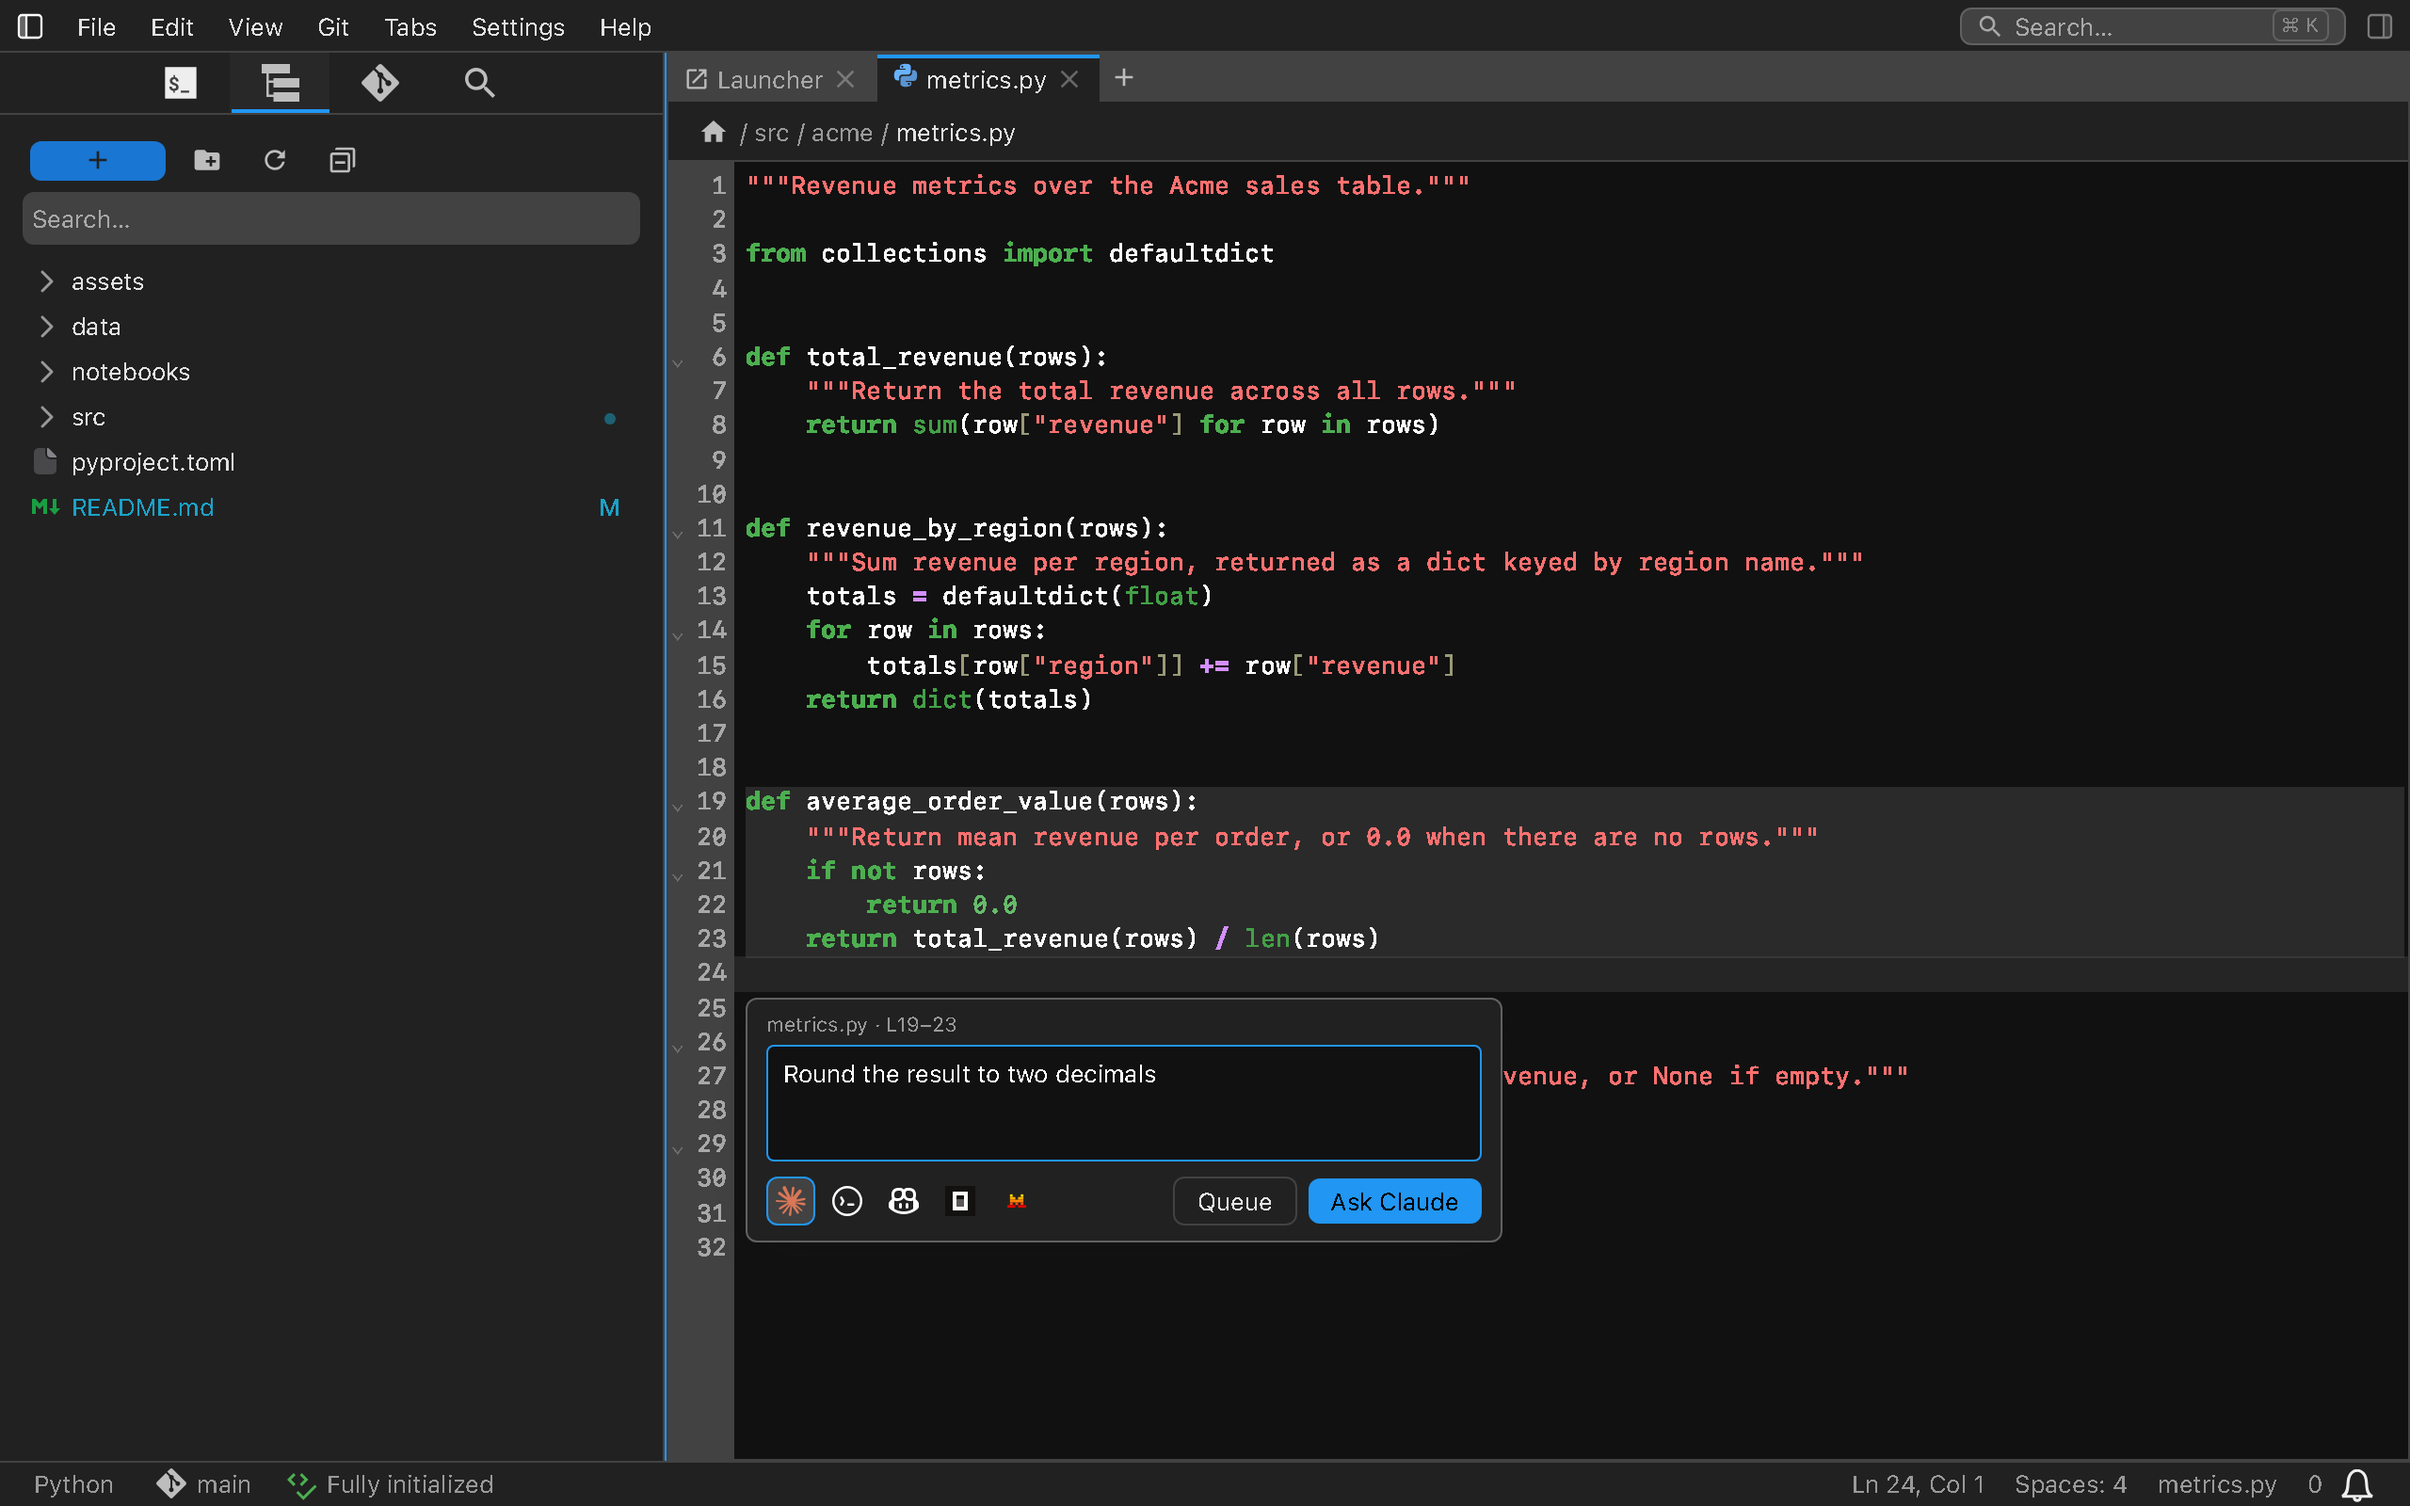
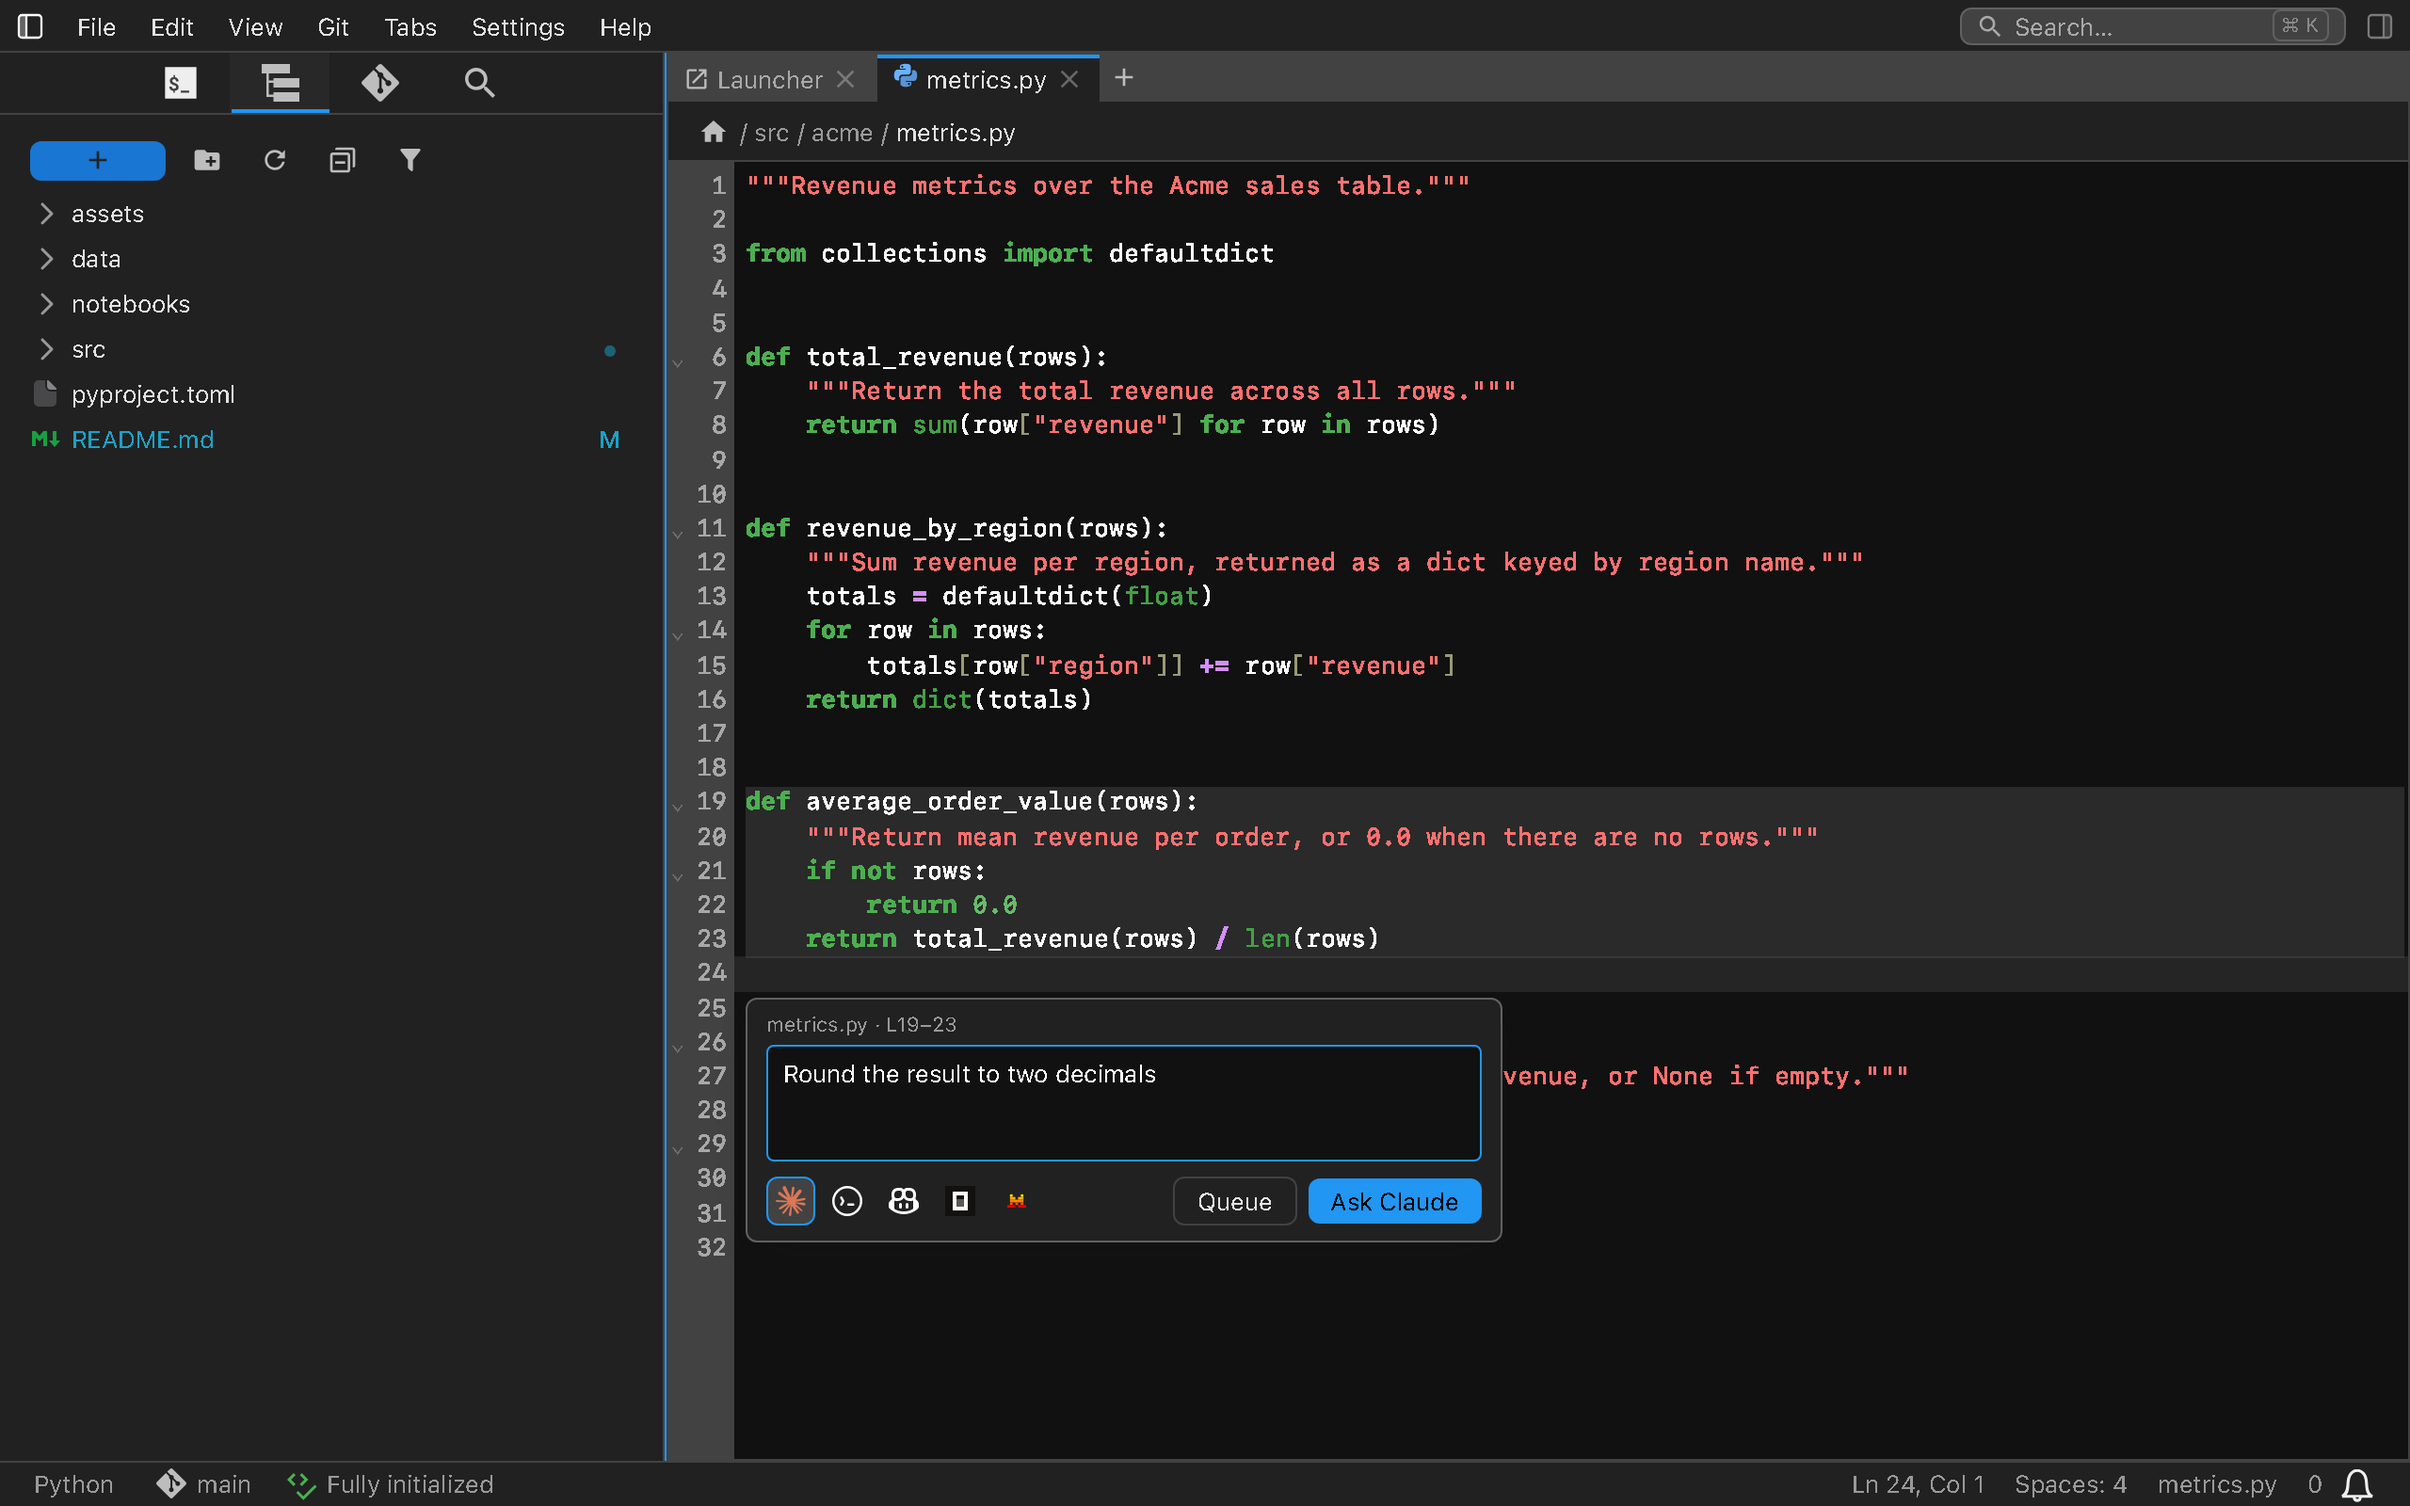
Hide the file browser filter box behind a toolbar toggle

Changed region(s): [[0.0, 0.125, 0.2812, 0.3438]]

diff --git a/src/fileBrowser/fileBrowser.tsx b/src/fileBrowser/fileBrowser.tsx
@@ -93,10 +93,21 @@ const GIT_REPO_PATH = '';
  */
 const FILE_TREE_TAG = 'file-tree-container';
 
+/**
+ * Injected into the tree's shadow root. The second rule hides the search
+ * box unless the host carries the visibility marker set by the filter
+ * bridge effect below — `@pierre/trees` always renders the box when
+ * `search` is enabled, and its stylesheet lives in the shadow root where
+ * outside CSS cannot reach.
+ */
 const FILE_TREE_UNSAFE_CSS =
   '[data-type="item"][data-item-selected="true"] ' +
   '[data-item-section="spacing-item"] {' +
   'border-left-color: transparent;' +
+  '}' +
+  ':host(:not([data-xtralab-filter-visible])) ' +
+  '[data-file-tree-search-container] {' +
+  'display: none;' +
   '}';
 
 interface IFileBrowserProps {
@@ -748,6 +759,17 @@ export function FileBrowserComponent(
     contentsManager.fileChanged.connect(onContentsFileChanged);
 
     const unsubscribe = model.subscribe(() => {
+      // Search-driven expansion must not trigger fetches: the tree
+      // auto-expands every directory whose path matches the query, and
+      // treating those as user expansions would recursively fetch every
+      // matching subtree — a single common letter can walk the whole
+      // workspace, node_modules included. Closing the search restores
+      // the pre-search expansion state, and a directory clicked in the
+      // results is toggled after the session closes, so real expansions
+      // are still fetched the moment the session ends.
+      if (model.isSearchOpen()) {
+        return;
+      }
       knownDirs.forEach((state, canonicalPath) => {
         if (state !== 'unloaded') {
           return;
@@ -844,6 +866,48 @@ export function FileBrowserComponent(
     sync();
     const unsubscribe = model.subscribe(sync);
     return () => {
+      unsubscribe();
+    };
+  }, [model, widget]);
+
+  // Bridge the filter-box visibility between the widget and the tree. The
+  // widget owns the flag; applying it stamps the marker attribute the
+  // unsafeCSS rule keys on and opens or closes the model's search session
+  // (opening focuses the input, closing clears any active filter). The
+  // model subscription covers the reverse direction: typing a printable
+  // character while the tree has focus opens a session on the tree's own
+  // initiative, and the box must surface for that session to be usable.
+  React.useEffect(() => {
+    if (widget === undefined) {
+      return;
+    }
+    const apply = (visible: boolean): void => {
+      const host = model.getFileTreeContainer();
+      if (host !== undefined) {
+        if (visible) {
+          host.dataset.xtralabFilterVisible = 'true';
+        } else {
+          delete host.dataset.xtralabFilterVisible;
+        }
+      }
+      if (visible && !model.isSearchOpen()) {
+        model.openSearch();
+      } else if (!visible && model.isSearchOpen()) {
+        model.closeSearch();
+      }
+    };
+    apply(widget.fileFilterVisible);
+    const visibleSlot = (sender: unknown, visible: boolean): void => {
+      apply(visible);
+    };
+    widget.fileFilterVisibleChanged.connect(visibleSlot);
+    const unsubscribe = model.subscribe(() => {
+      if (model.isSearchOpen() && !widget.fileFilterVisible) {
+        widget.setFileFilterVisible(true);
+      }
+    });
+    return () => {
+      widget.fileFilterVisibleChanged.disconnect(visibleSlot);
       unsubscribe();
     };
   }, [model, widget]);

diff --git a/src/fileBrowser/commands.ts b/src/fileBrowser/commands.ts
@@ -19,6 +19,7 @@ import {
   downloadIcon,
   editIcon,
   fileIcon,
+  filterIcon,
   IDisposableMenuItem,
   newFolderIcon,
   RankedMenu,
@@ -47,6 +48,7 @@ export namespace CommandIDs {
   export const download = 'xtralab:download';
   export const refresh = 'xtralab:refresh';
   export const collapseAll = 'xtralab:collapse-all';
+  export const toggleFileFilter = 'xtralab:toggle-file-filter';
   export const createNewDirectory = 'xtralab:create-new-directory';
   export const newLauncher = 'xtralab:new-launcher';
   export const revealPath = 'xtralab:reveal-path';
@@ -484,6 +486,24 @@ export function registerCommands(opts: IRegisterCommandsOptions): () => void {
     }
   });
 
+  commands.addCommand(CommandIDs.toggleFileFilter, {
+    label: trans.__('Toggle File Filter'),
+    caption: trans.__('Show or hide the file filter'),
+    icon: filterIcon.bindprops({ stylesheet: 'menuItem' }),
+    isToggled: () => browser.fileFilterVisible,
+    execute: () => {
+      browser.toggleFileFilter();
+    }
+  });
+
+  // Refresh the toggle's state however the filter is shown or hidden —
+  // the toolbar button, or the auto-show that kicks in when typing with
+  // the tree focused opens a search session.
+  const onFilterVisibleChanged = (): void => {
+    commands.notifyCommandChanged(CommandIDs.toggleFileFilter);
+  };
+  browser.fileFilterVisibleChanged.connect(onFilterVisibleChanged);
+
   // Public reveal seam. Other plugins (editor breadcrumbs, future
   // "reveal in tree" actions) call this command rather than depending
   // on the file browser widget directly. Activating the sidebar is part
@@ -591,6 +611,7 @@ export function registerCommands(opts: IRegisterCommandsOptions): () => void {
   return () => {
     app.contextMenu.opened.disconnect(updateOpenWithMenu);
     app.shell.currentChanged?.disconnect(onCurrentChanged);
+    browser.fileFilterVisibleChanged.disconnect(onFilterVisibleChanged);
     paletteItem?.dispose();
   };
 }
@@ -605,13 +626,14 @@ export namespace ToolbarNames {
   export const newDirectory = 'new-directory';
   export const refresh = 'refresh';
   export const collapseAll = 'collapse-all';
+  export const toggleFileFilter = 'toggle-file-filter';
 }
 
 /**
  * Populate the file browser's toolbar with the buttons that mirror the
  * default JupyterLab file browser: a "+" launcher button, a new-folder
- * button, and a refresh button. Returns a list of button names so callers
- * can extend it or remove items if they need to.
+ * button, a refresh button, a collapse-all button, and the file filter
+ * toggle.
  */
 export function populateToolbar(opts: {
   app: JupyterFrontEnd;
@@ -649,6 +671,14 @@ export function populateToolbar(opts: {
     new CommandToolbarButton({
       commands,
       id: CommandIDs.collapseAll,
+      label: ''
+    })
+  );
+  browser.toolbar.addItem(
+    ToolbarNames.toggleFileFilter,
+    new CommandToolbarButton({
+      commands,
+      id: CommandIDs.toggleFileFilter,
       label: ''
     })
   );

diff --git a/src/fileBrowser/widget.tsx b/src/fileBrowser/widget.tsx
@@ -100,6 +100,21 @@ export interface IXtralabFileBrowser {
   readonly collapseAllRequested: ISignal<IXtralabFileBrowser, void>;
 
   /**
+   * Whether the filter box above the tree is shown. Mirrors the default
+   * file browser's `showFileFilter`: hidden on startup and flipped by the
+   * toolbar toggle. Also forced to `true` when the tree opens a search
+   * session on its own — typing a letter while the tree has focus.
+   */
+  readonly fileFilterVisible: boolean;
+
+  /**
+   * Emits when {@link fileFilterVisible} changes. The React component
+   * listens to show or hide the filter box; the toggle command listens
+   * to refresh its toggled state.
+   */
+  readonly fileFilterVisibleChanged: ISignal<IXtralabFileBrowser, boolean>;
+
+  /**
    * Trigger a refresh of every loaded directory in the tree.
    */
   refresh(): void;
@@ -130,6 +145,16 @@ export interface IXtralabFileBrowser {
    * Ask the tree to collapse every currently expanded folder.
    */
   collapseAll(): void;
+
+  /**
+   * Show or hide the filter box above the tree.
+   */
+  setFileFilterVisible(visible: boolean): void;
+
+  /**
+   * Toggle the filter box above the tree.
+   */
+  toggleFileFilter(): void;
 }
 
 /**
@@ -201,6 +226,14 @@ export class XtralabFileBrowser extends Widget implements IXtralabFileBrowser {
     return this._collapseAllRequested;
   }
 
+  get fileFilterVisible(): boolean {
+    return this._fileFilterVisible;
+  }
+
+  get fileFilterVisibleChanged(): ISignal<this, boolean> {
+    return this._fileFilterVisibleChanged;
+  }
+
   /**
    * Update the cached selection. Called from the React tree when the
    * underlying `@pierre/trees` model emits a selection change.
@@ -235,6 +268,18 @@ export class XtralabFileBrowser extends Widget implements IXtralabFileBrowser {
     this._collapseAllRequested.emit();
   }
 
+  setFileFilterVisible(visible: boolean): void {
+    if (this._fileFilterVisible === visible) {
+      return;
+    }
+    this._fileFilterVisible = visible;
+    this._fileFilterVisibleChanged.emit(visible);
+  }
+
+  toggleFileFilter(): void {
+    this.setFileFilterVisible(!this._fileFilterVisible);
+  }
+
   private _contentsManager: Contents.IManager;
   private _docManager: IDocumentManager;
   private _onOpenFile: ((serverPath: string) => void) | undefined;
@@ -245,6 +290,8 @@ export class XtralabFileBrowser extends Widget implements IXtralabFileBrowser {
   private _revealRequested = new Signal<this, string>(this);
   private _rootRequested = new Signal<this, void>(this);
   private _collapseAllRequested = new Signal<this, void>(this);
+  private _fileFilterVisible = false;
+  private _fileFilterVisibleChanged = new Signal<this, boolean>(this);
   private _toolbar: Toolbar;
   private _content: XtralabFileTreeContent;
 }
